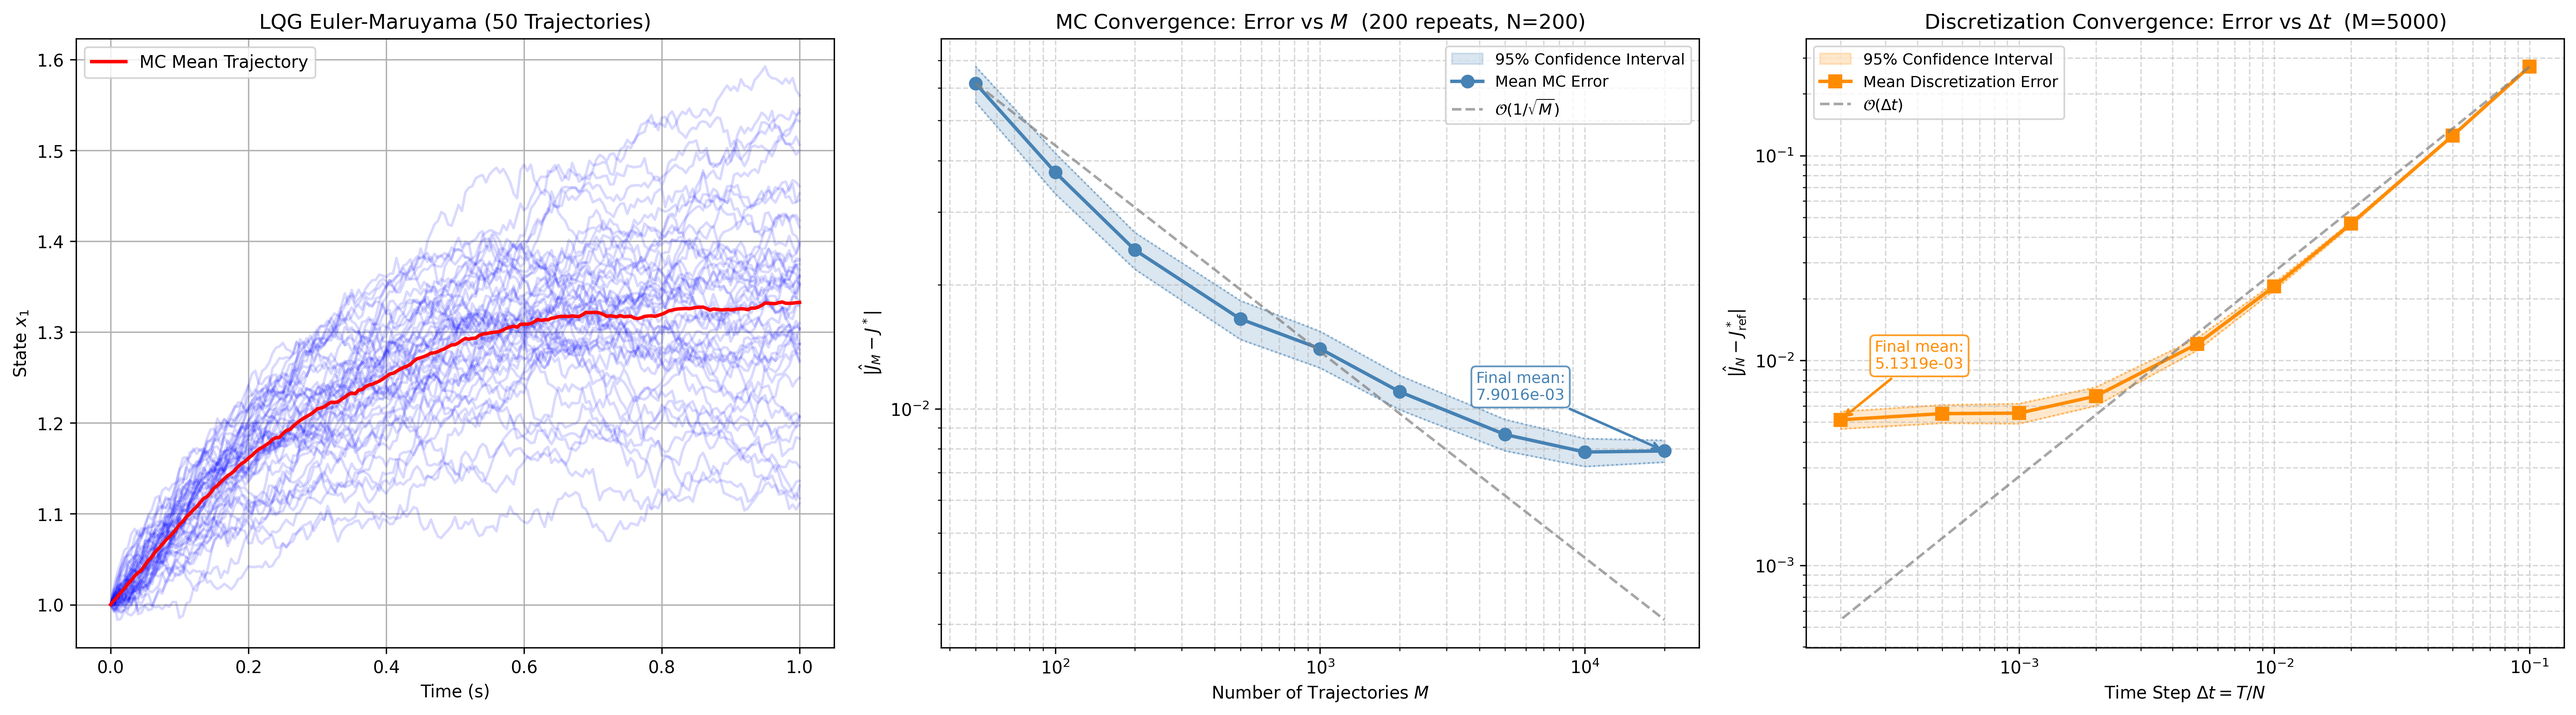
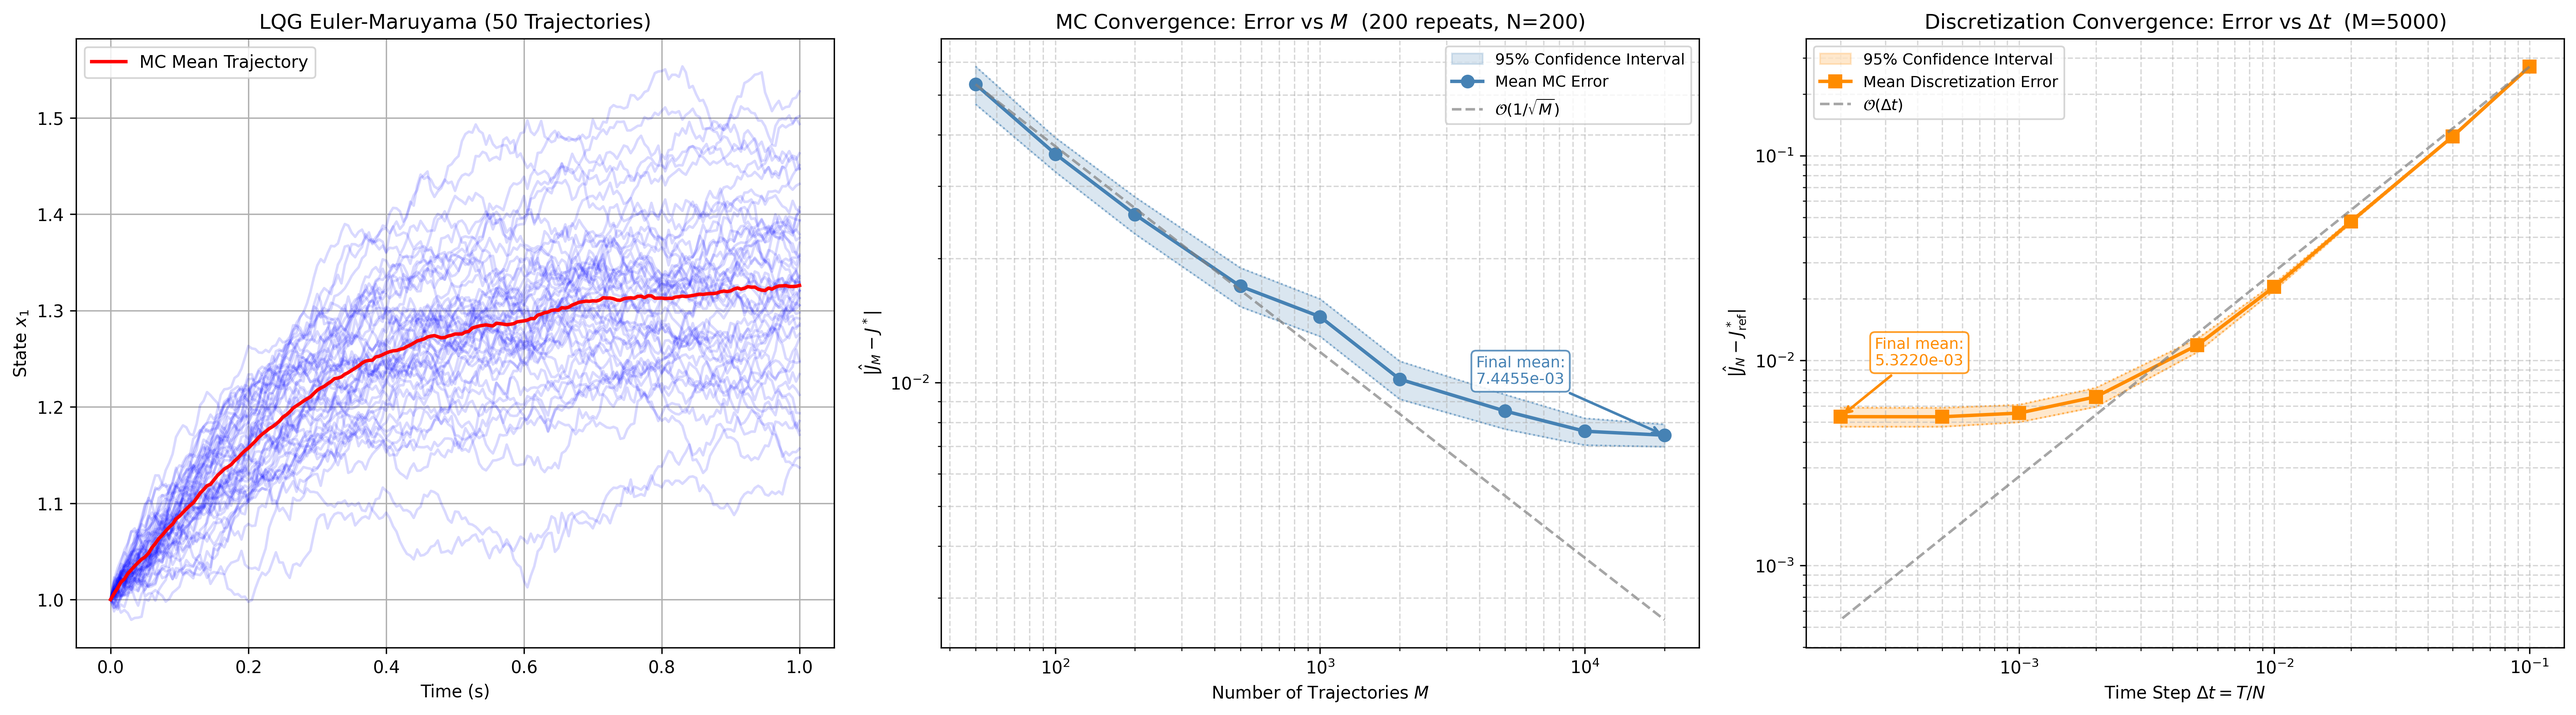
Add the LQG problem

diff --git a/scripts/run_exp1_lqg.py b/scripts/run_exp1_lqg.py
@@ -4,15 +4,21 @@ import numpy as np
 import scipy.stats as stats
 import matplotlib.pyplot as plt
 
+# Ensure the 'soc' module can be found
 sys.path.append(os.path.abspath(os.path.join(os.path.dirname(__file__), '..')))
 
 from soc.lqr import solve_dre
 from soc.lqg import compute_lqg_analytic_cost
 from soc.simulate import simulate_lqg_euler_maruyama, compute_lqg_mc_costs
+from soc.repro import save_experiment_metadata  # <--- REPRODUCIBILITY IMPORT
 
 # ==========================================
-# 1. SETUP PARAMETERS
+# 1. SETUP PARAMETERS & REPRODUCIBILITY
 # ==========================================
+# REQUIRED BY SECTION 8.3: Fix the random seed!
+SEED = 42
+np.random.seed(SEED)
+
 d, r = 2, 2
 A = np.array([[0.0, 1.0],[0.0, 0.0]])
 B = np.array([[0.0], [1.0]])
@@ -22,14 +28,14 @@ Sigma = np.array([[0.1, 0.0], [0.0, 0.1]])
 y = np.array([1.0, 1.0])
 N, T = 200, 1.0
 
-M_values  = [50, 100, 200, 500, 1000, 2000, 5000, 10000, 20000]
-N_values  = [10, 20, 50, 100, 200, 500, 1000, 2000, 5000]  # varies for plot 3
+M_values  =[50, 100, 200, 500, 1000, 2000, 5000, 10000, 20000]
+N_values  =[10, 20, 50, 100, 200, 500, 1000, 2000, 5000]  # varies for plot 3
 M_fixed   = 5000   # fixed M for the N-convergence experiment
 n_repeats = 200
 confidence = 0.95
 
 print(f"Running Experiment 1: Stochastic LQG Benchmark...")
-print(f"Calculating stats with {n_repeats} repeats per M value...\n")
+print(f"Calculating stats with {n_repeats} repeats per M/N value...\n")
 
 # ==========================================
 # 2. EXACT MATHEMATICAL BASELINES (for fixed N)
@@ -43,10 +49,10 @@ analytic_cost = compute_lqg_analytic_cost(P, y, Sigma, N, T)
 alpha  = 1.0 - confidence
 t_crit = stats.t.ppf(1 - alpha / 2, df=n_repeats - 1)
 
-means, ci_lo, ci_hi = [], [], []
+means, ci_lo, ci_hi = [], [],[]
 
 for M_val in M_values:
-    run_errors = []
+    run_errors =[]
     for _ in range(n_repeats):
         X_mc  = simulate_lqg_euler_maruyama(A, B, R, P, y, Sigma, N, T, M_val)
         costs = compute_lqg_mc_costs(X_mc, P, Q, R, S, B, N, T)
@@ -73,12 +79,12 @@ cost_ref   = compute_lqg_analytic_cost(P_ref, y, Sigma, N_ref, T)
 
 print(f"\nRunning N-convergence experiment (M={M_fixed} fixed)...\n")
 
-means_N, ci_lo_N, ci_hi_N = [], [], []
+means_N, ci_lo_N, ci_hi_N = [], [],[]
 
 for N_val in N_values:
     P_n    = solve_dre(A, B, Q, R, S, N_val, T, 'euler')
 
-    run_errors_N = []
+    run_errors_N =[]
     for _ in range(n_repeats):
         X_mc  = simulate_lqg_euler_maruyama(A, B, R, P_n, y, Sigma, N_val, T, M_fixed)
         costs = compute_lqg_mc_costs(X_mc, P_n, Q, R, S, B, N_val, T)
@@ -92,7 +98,7 @@ for N_val in N_values:
     means_N.append(mean_err)
     ci_lo_N.append(lo)
     ci_hi_N.append(hi)
-    print(f"N={N_val:<6} | Mean Error: {mean_err:.4e} | 95% CI: [{lo:.4e}, {hi:.4e}]")
+    print(f"N={N_val:<6} | Mean Error: {mean_err:.4e} | 95% CI:[{lo:.4e}, {hi:.4e}]")
 
 # ==========================================
 # 4. VISUALIZATION (3 plots)
@@ -144,7 +150,6 @@ ax3.loglog(dt_values, ci_lo_N,  linestyle=':', color='darkorange', linewidth=1, 
 ax3.loglog(dt_values, ci_hi_N,  linestyle=':', color='darkorange', linewidth=1, alpha=0.6)
 
 # Euler-Maruyama has weak order 1 so the bias scales as O(Δt)
-ref_N = [means_N[0] * (dt_values[0] / dt) ** (-1) * (dt / dt_values[0]) for dt in dt_values]
 ref_N = [means_N[0] * (dt / dt_values[0]) for dt in dt_values]
 ax3.loglog(dt_values, ref_N, linestyle='--', color='gray', alpha=0.7, label=r"$\mathcal{O}(\Delta t)$")
 
@@ -163,14 +168,30 @@ ax3.legend(fontsize=9)
 plt.tight_layout()
 
 # ==========================================
-# 5. SAVE
+# 5. ABSOLUTE PATH SAVING & REPRODUCIBILITY
 # ==========================================
 script_dir   = os.path.dirname(os.path.abspath(__file__))
 project_root = os.path.abspath(os.path.join(script_dir, '..'))
+
+# 1. Save the Figure
 figures_folder = os.path.join(project_root, 'figures')
 os.makedirs(figures_folder, exist_ok=True)
-
 save_path = os.path.join(figures_folder, 'exp1_lqg_benchmark.png')
 plt.savefig(save_path, dpi=300, bbox_inches='tight')
 print(f"\n Plot successfully saved to: {save_path}")
+
+# 2. Save the Metadata (Git Hash, Seed, Parameters)
+results_folder = os.path.join(project_root, 'results')
+metadata = {
+    "experiment": "Exp1_LQG_Benchmark_Advanced",
+    "RNG_seed": SEED,
+    "T": T,
+    "N_ref_ground_truth": N_ref,
+    "M_fixed_for_N_plot": M_fixed,
+    "M_values_tested": M_values,
+    "N_values_tested": N_values,
+    "n_repeats_for_CI": n_repeats
+}
+save_experiment_metadata(results_folder, "exp1_lqg", metadata)
+
 plt.show()

diff --git a/soc/repro.py b/soc/repro.py
@@ -1,0 +1,30 @@
+import os
+import json
+import subprocess
+from datetime import datetime
+
+def get_git_commit_hash():
+    """Retrieves the current Git commit hash of the repository."""
+    try:
+        # Runs the git command in the terminal to get the hash
+        commit_hash = subprocess.check_output(['git', 'rev-parse', 'HEAD']).strip().decode('utf-8')
+        return commit_hash
+    except Exception:
+        return "git_not_found_or_uncommitted"
+
+def save_experiment_metadata(results_folder, experiment_name, config_dict):
+    """Saves the RNG seed, parameters, and Git hash to the results/ folder."""
+    os.makedirs(results_folder, exist_ok=True)
+    
+    # Add reproducibility trackers to the dictionary
+    config_dict["git_commit"] = get_git_commit_hash()
+    config_dict["timestamp"] = datetime.now().strftime("%Y-%m-%d %H:%M:%S")
+    
+    # Save as a JSON file
+    filename = f"{experiment_name}_metadata.json"
+    filepath = os.path.join(results_folder, filename)
+    
+    with open(filepath, 'w') as f:
+        json.dump(config_dict, f, indent=4)
+        
+    print(f" Run metadata (including Git Hash) saved to: {filepath}")
